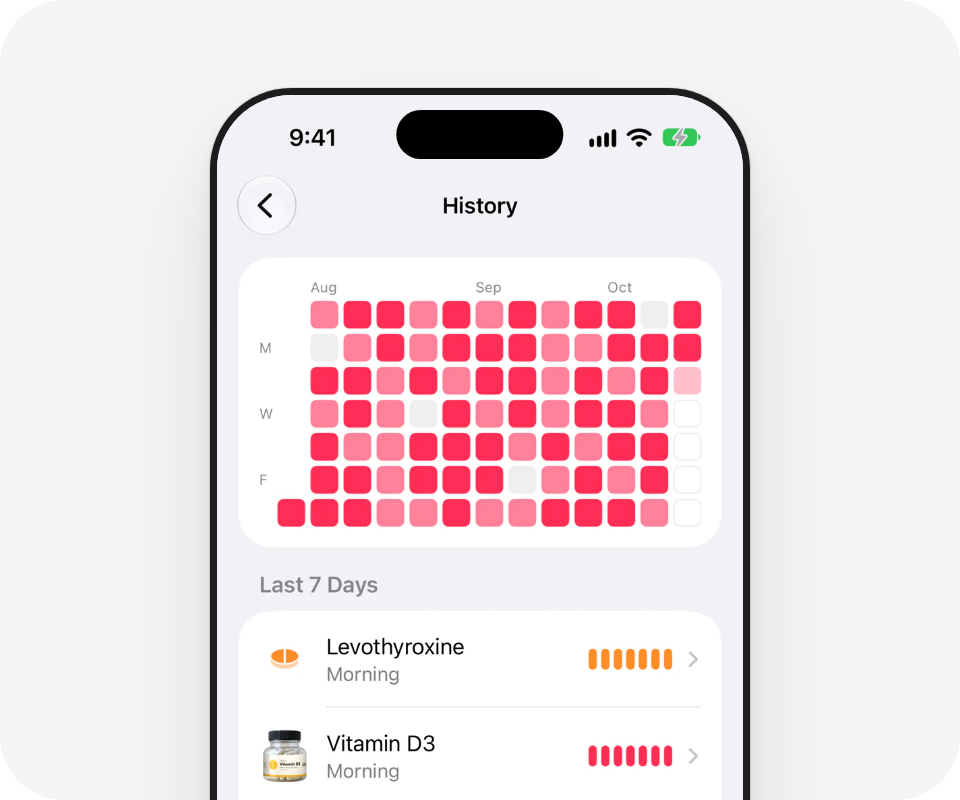
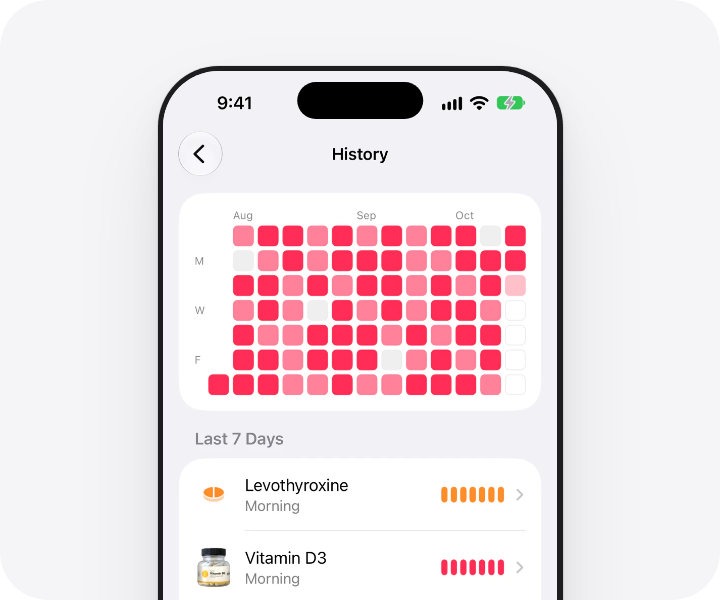
Give the README pictures a dark set, and remove the table lines
- site/social.py now also writes the README pictures to docs/images/, each for the light and the dark theme.
- The README shows the right picture with the picture element, and the two feature pictures stand side by side with no table.
- The dark hero uses a capture of Today in dark mode. History has no capture in dark mode yet, so its dark card shows the light phone.

diff --git a/site/social.py b/site/social.py
@@ -2,16 +2,20 @@
 """Draw the social preview cards of Maru: python3 site/social.py
 
 Writes og.png (1200 x 630) for each language, for Open Graph and X, and og-github.png (1280 x 640) for the
-social preview of the GitHub repository. A card is an HTML page, and Google Chrome takes the picture.
+social preview of the GitHub repository. It also writes the pictures of the repository README to docs/images/,
+each for the light and for the dark theme of GitHub. A card is an HTML page, and Google Chrome takes the picture.
 Needs Google Chrome on macOS, because the card uses the system fonts, as the site does.
 With --keep it also leaves the HTML pages in site/, to open in a browser.
 """
 
 import html
 import json
+import re
 import subprocess
 import sys
 from pathlib import Path
+
+import build
 
 SITE = Path(__file__).resolve().parent
 CHROME = "/Applications/Google Chrome.app/Contents/MacOS/Google Chrome"
@@ -20,6 +24,47 @@ CARDS = [("en", "og.png"), ("zh-Hans", "og-cn.png"), ("ja", "og-jp.png"), ("es",
          ("ko", "og-kr.png")]
 # The design is 1200 x 630. The GitHub card is the same design, a little larger, on a wider background.
 SIZE, GITHUB_SIZE = (1200, 630), (1280, 640)
+IMAGES = SITE.parent / "docs/images"
+# The feature pictures of the README: the file and the block of the home page (build.stage).
+FEATURES = [("reminders", "duo"), ("history", "history")]
+FEATURE_SIZE = (480, 400)
+
+# The hero of the README is the English card with round corners on a clear background, so it sits on the page of
+# GitHub as a card. The light card is gray, because a white card has no edge on a white page.
+HERO = """
+body {{ background: none; }}
+.card {{ overflow: hidden; border-radius: 40px; background: radial-gradient(60% 90% at 78% 62%, #FFE3E9, transparent 70%), #F5F5F7; }}
+"""
+# The dark hero: the dark tokens of style.css, the pink of iOS in dark mode, and a capture of Today in dark mode.
+HERO_DARK = """
+body {{ background: none; color: #F5F5F7; }}
+.card {{
+  overflow: hidden; border-radius: 40px; box-shadow: inset 0 0 0 1px rgba(255, 255, 255, 0.08);
+  background: radial-gradient(60% 90% at 78% 62%, #4A1424, transparent 70%), #161618;
+}}
+h1 span + span {{ color: #FF375F; }}
+.device {{ background: #3A3A3C; }}
+.screen {{ background: #000000; }}
+"""
+# A feature picture is a block of the home page on a card, with style.css. The dark card gets the dark tokens.
+FEATURE = """<!DOCTYPE html>
+<html lang="en">
+<meta charset="utf-8">
+<link rel="stylesheet" href="style.css">
+<style>
+{tokens}
+html, body {{ margin: 0; overflow: hidden; background: none; }}
+.rcard {{
+  position: relative; width: {width}px; height: {height}px; overflow: hidden; border-radius: 32px;
+  display: grid; place-items: center; container-type: inline-size; background: {background};
+}}
+.rcard::after {{ content: ""; position: absolute; inset: 0; border-radius: inherit; box-shadow: inset 0 0 0 1px {ring}; }}
+.rcard .wallpaper {{ max-width: none; height: 100%; box-sizing: border-box; border-radius: 0; align-content: center; box-shadow: none; }}
+.rcard .device {{ --device-w: 270px; position: absolute; left: 50%; top: 44px; margin-left: -135px; }}
+</style>
+<div class="rcard">{block}</div>
+</html>
+"""
 
 # The colors, the type, and the shadows are the tokens of style.css.
 PAGE = """<!DOCTYPE html>
@@ -55,13 +100,13 @@ h1 span + span {{ color: #FF2D55; }}
 .screen {{ position: relative; height: 640px; overflow: hidden; border-radius: 62px 62px 0 0; background: #F2F2F7; }}
 .screen img {{ position: absolute; left: 0; top: 0; width: 100%; }}
 .island {{ position: absolute; left: 50%; top: 32px; width: 128px; height: 38px; margin-left: -64px; border-radius: 999px; background: #000000; }}
-</style>
+{extra}</style>
 <div class="card">
 <div class="copy">
 <div class="brand"><img src="icon.png" alt=""><span lang="en">Maru</span></div>
 <h1>{headline}</h1>
 </div>
-<div class="device"><div class="screen"><img src="shots/today-{code}.webp" alt=""><img src="shots/today-bars-{code}.webp" alt=""></div><span class="island"></span></div>
+<div class="device"><div class="screen">{screen}</div><span class="island"></span></div>
 </div>
 <script>
 // A long headline gets a smaller size, so each line fits the column.
@@ -72,25 +117,49 @@ for (let size = 84; size > 40 && Math.max(...[...h1.children].map(s => s.offsetW
 """
 
 
-def shoot(code, name, size):
-    """Write the card of one language as an HTML page in site/, and take its picture."""
-    parts = json.loads((SITE / "src/strings" / f"{code}.json").read_text("utf-8"))["home"]["h1"].split("|")
-    headline = "".join(f"<span>{html.escape(part.strip())}</span>" for part in parts)
-    page = SITE / f"{Path(name).stem}.html"
-    page.write_text(PAGE.format(code=code, width=size[0], height=size[1], zoom=size[1] / SIZE[1], headline=headline),
-                    "utf-8")
-    subprocess.run([CHROME, "--headless=new", "--disable-gpu", "--hide-scrollbars", "--force-device-scale-factor=1",
-                    f"--window-size={size[0]},{size[1]}", "--virtual-time-budget=3000",
-                    f"--screenshot={SITE / name}", page.as_uri()], check=True, capture_output=True)
+def shoot(text, file, size, scale=1):
+    """Write a card as an HTML page in site/, and take its picture."""
+    page = SITE / f"{file.stem}.html"
+    page.write_text(text, "utf-8")
+    subprocess.run([CHROME, "--headless=new", "--disable-gpu", "--hide-scrollbars", f"--force-device-scale-factor={scale}",
+                    "--default-background-color=00000000", f"--window-size={size[0]},{size[1]}",
+                    "--virtual-time-budget=3000", f"--screenshot={file}", page.as_uri()], check=True, capture_output=True)
     if "--keep" not in sys.argv:
         page.unlink()
-    print(f"card {name}")
+    print(f"card {file.name}")
+
+
+def card(code, size, extra="", dark=False):
+    """The card of one language. The dark card has one capture of Today in dark mode, with its bars."""
+    parts = json.loads((SITE / "src/strings" / f"{code}.json").read_text("utf-8"))["home"]["h1"].split("|")
+    headline = "".join(f"<span>{html.escape(part.strip())}</span>" for part in parts)
+    shots = [f"today-dark-{code}"] if dark else [f"today-{code}", f"today-bars-{code}"]
+    screen = "".join(f'<img src="shots/{shot}.webp" alt="">' for shot in shots)
+    return PAGE.format(code=code, width=size[0], height=size[1], zoom=size[1] / SIZE[1], headline=headline,
+                       screen=screen, extra=extra.format())
+
+
+def feature(shot, dark):
+    """A block of the home page on a card. The dark tokens are the dark block of style.css.
+    History has no capture in dark mode, so the dark card shows the light phone."""
+    tokens = ""
+    if dark:
+        css = (SITE / "style.css").read_text("utf-8")
+        tokens = ":root {" + re.search(r"prefers-color-scheme: dark\) \{\s*:root \{(.*?)\}", css, re.S).group(1) + "}"
+    return FEATURE.format(tokens=tokens, width=FEATURE_SIZE[0], height=FEATURE_SIZE[1],
+                          background="#161618" if dark else "#F5F5F7",
+                          ring="rgba(255, 255, 255, 0.08)" if dark else "transparent",
+                          block=build.stage("en", shot).replace('src="/', 'src="'))
 
 
 def main():
     for code, name in CARDS:
-        shoot(code, name, SIZE)
-    shoot("en", "og-github.png", GITHUB_SIZE)
+        shoot(card(code, SIZE), SITE / name, SIZE)
+    shoot(card("en", GITHUB_SIZE), SITE / "og-github.png", GITHUB_SIZE)
+    for dark, end in [(False, ""), (True, "-dark")]:
+        shoot(card("en", SIZE, HERO_DARK if dark else HERO, dark), IMAGES / f"hero{end}.png", SIZE)
+        for name, shot in FEATURES:
+            shoot(feature(shot, dark), IMAGES / f"{name}{end}.png", FEATURE_SIZE, 1.5)
 
 
 if __name__ == "__main__":

diff --git a/site/README.md b/site/README.md
@@ -19,7 +19,7 @@ The command needs Python 3 and nothing else. It writes the four pages of each la
 | `src/mock/<lang>.json` | The app text of the widget and the reminder in one language |
 | `../PRIVACY.md` | The full privacy policy. It stays English on every language page |
 | `style.css`, `site.js` | The style, the scroll entrances, the hero phone, and the language hint |
-| `social.py` | The social preview cards: `og.png` and one card for each other language |
+| `social.py` | The social preview cards: `og.png` and one card for each other language. Also the pictures of the repository README |
 
 Each page is the index file of its own folder: `/`, `/faq/`, `/privacy/`, `/support/`, and the same under each language folder. The address ends with a slash, so Cloudflare serves it with no redirect. The build also writes `404.html`, `_redirects`, and `llms.txt`. `_redirects` sends the old addresses (`/faq.html`, `/privacy.html`, `/support.html`, `/zh-hans/`, `/ja/`, `/ko/`, `/us/`) to the new ones. Do not edit a generated file by hand.
 
@@ -130,6 +130,7 @@ The command needs Google Chrome on macOS. It draws each card as an HTML page wit
 - `og-github.png`: 1280 x 640 px, the same design in English, for the social preview of the GitHub repository. Upload it by hand in the settings of the repository. The site does not serve it.
 - The files are PNG, because X, Facebook, LinkedIn, Slack, and iMessage all read PNG, and each file is under 300 KB.
 - A card has the icon, the name, the headline of the home page, and the top of the Today screen. It has no App Store badge and no "Download", so it stays true before and after the release.
+- The command also writes the pictures of the repository README to `docs/images/`: `hero.png`, `reminders.png`, and `history.png`, and a `-dark` file of each for the dark theme of GitHub. The feature pictures are the blocks of the home page on a card. The dark hero shows `shots/today-dark-en.webp`, a capture of Today in dark mode at 780 px width. History has no capture in dark mode yet, so its dark card shows the light phone. The site does not serve the dark capture.
 - Platforms keep a card for days. After a change, ask for a new read in the X Card Validator, the Facebook Sharing Debugger, and the LinkedIn Post Inspector.
 
 ## Deploy

diff --git a/README.md b/README.md
@@ -1,5 +1,8 @@
 <p align="center">
-  <a href="https://maru.day"><img src="docs/images/hero.png" alt="Maru. Did I take it? One look. The Today screen of Maru with the items to take now." width="100%"></a>
+  <a href="https://maru.day"><picture>
+    <source media="(prefers-color-scheme: dark)" srcset="docs/images/hero-dark.png">
+    <img src="docs/images/hero.png" alt="Maru. Did I take it? One look. The Today screen of Maru with the items to take now." width="100%">
+  </picture></a>
 </p>
 
 <p align="center">
@@ -18,18 +21,21 @@
   Coming soon to the App Store, for iPhone and iPad.
 </p>
 
-<table>
-  <tr>
-    <td width="50%" valign="top">
-      <img src="docs/images/reminders.png" alt="The Maru Today widget: 2 of 5 taken, with Morning, Noon, and Evening. Under it, a Maru reminder to take Vitamin D3." width="100%">
-      <p><b>Reminders.</b> Maru reminds you at your times.</p>
-    </td>
-    <td width="50%" valign="top">
-      <img src="docs/images/history.png" alt="The History screen of Maru with a graph of past days and the last 7 days of each item." width="100%">
-      <p><b>History.</b> You see each day that you recorded.</p>
-    </td>
-  </tr>
-</table>
+<p align="center">
+  <picture>
+    <source media="(prefers-color-scheme: dark)" srcset="docs/images/reminders-dark.png">
+    <img src="docs/images/reminders.png" alt="The Maru Today widget: 2 of 5 taken, with Morning, Noon, and Evening. Under it, a Maru reminder to take Vitamin D3." width="49%">
+  </picture>
+  <picture>
+    <source media="(prefers-color-scheme: dark)" srcset="docs/images/history-dark.png">
+    <img src="docs/images/history.png" alt="The History screen of Maru with a graph of past days and the last 7 days of each item." width="49%">
+  </picture>
+</p>
+
+<p align="center">
+  <b>Reminders.</b> Maru reminds you at your times.<br>
+  <b>History.</b> You see each day that you recorded.
+</p>
 
 - Free and open source. No subscription and no ads.
 - No account.
